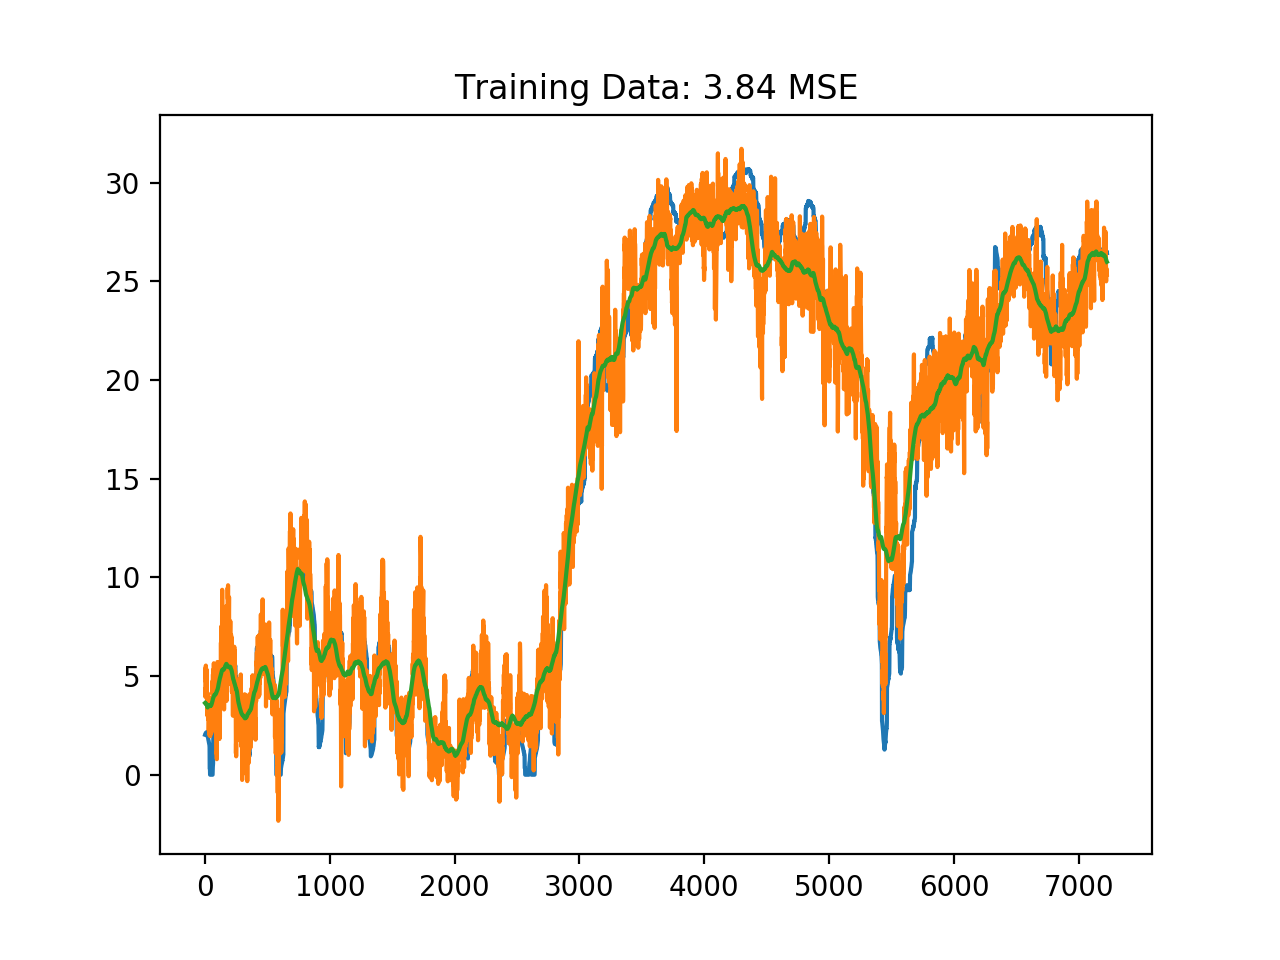
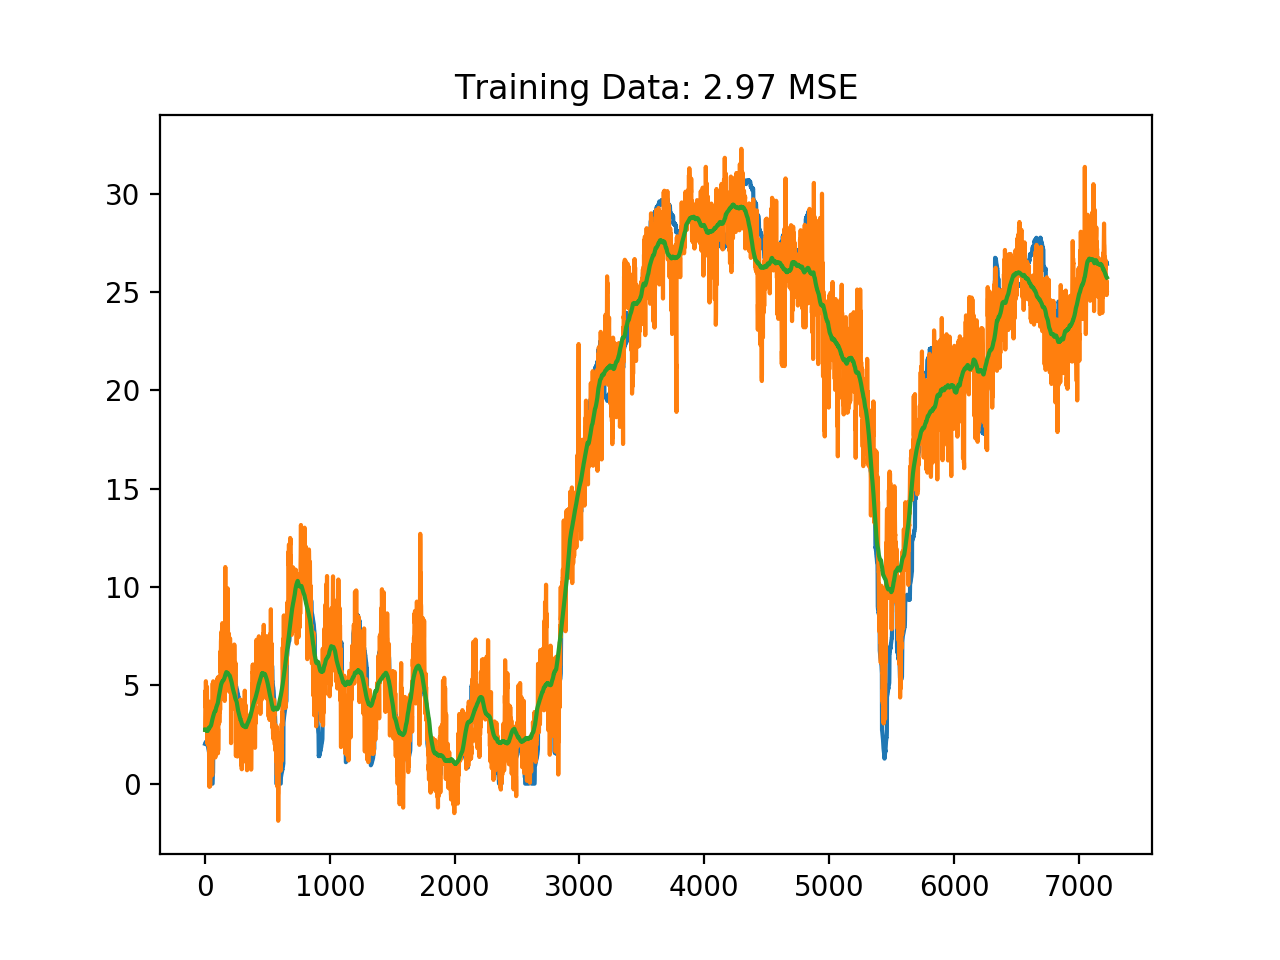
MSE down to 4.22!!

diff --git a/predict.py b/predict.py
@@ -31,10 +31,10 @@ extraction_network = 'resnet50'
 smooth_signal = ma_smoothing
 smooth_data = ma_smoothing
 smooth_data_window_size = 1
-smooth_signal_window_sizes = 153  # Set to a list of values to test them via validation OR to a value to set it constant
+smooth_signal_window_sizes = 151  # Set to a list of values to test them via validation OR to a value to set it constant
 scale_data = True
 show_model_plots = True
-best_config = {'model_type': 'ridge', 'alpha': 20000.0}  # alpha=3000 good too. None for HP Sweep or non-final runs
+best_config = {'model_type': 'ridge', 'alpha': 10000.0}  # alpha=40000 good too. None for HP Sweep or non-final runs
 best_pca_n_components = 0  # <= num features, 0 for No PCA (best for ridge), None to HP Sweep
 k_fold = 10  # For Cross-Validation. Needs to be >5 for training folds to have enough data
 val_fraction = 0.15  # What fraction of the training data to use for validation
@@ -49,7 +49,7 @@ if len(sys.argv) >= 2 and (sys.argv[-1] == '-g' or sys.argv[1] == '--gpu-optimiz
     using = 'gpu'
 model_type = str.lower(model_type)
 data_dir = 'data/'
-filename_base = 'drive_orig_theano'
+filename_base = 'drive'
 data_filename_base = os.path.join(data_dir, filename_base)
 features_filepath = data_filename_base + '_' + extraction_network + '.npz'
 warnings.filterwarnings(action='ignore', module='scipy', message='^internal gelsd')
@@ -146,33 +146,33 @@ if model_type[-2:] != 'nn':  # Simple Model
     for smooth_signal_window_size in smooth_signal_window_sizes:
         print smooth_signal_window_size
         y_train_pred = model.predict(X_train)
-        print(str.upper(model_type) +
-            ' Model Train MSE: %.2f' % mean_squared_error(y_train, y_train_pred))
+        train_mse = mean_squared_error(y_train, y_train_pred)
+        print(str.upper(model_type) + ' Model Train MSE: %.2f' % train_mse)
 
         y_train_pred_smoothed = smooth_signal(y_train_pred, smooth_signal_window_size)
-        print(str.upper(model_type) +
-            ' Model Smoothed Train MSE: %.2f' % mean_squared_error(y_train, y_train_pred_smoothed))
+        train_smoothed_mse = mean_squared_error(y_train, y_train_pred_smoothed)
+        print(str.upper(model_type) + ' Model Smoothed Train MSE: %.2f' % train_smoothed_mse)
 
         y_test_pred = model.predict(X_test)
-        print(str.upper(model_type) +
-            ' Model Test MSE: %.2f' % mean_squared_error(y_test, y_test_pred))
+        test_mse = mean_squared_error(y_test, y_test_pred)
+        print(str.upper(model_type) + ' Model Test MSE: %.2f' % test_mse)
 
         y_test_pred_smoothed = smooth_signal(y_test_pred, smooth_signal_window_size)
-        print(str.upper(model_type) +
-            ' Model Smoothed Test MSE: %.2f' % mean_squared_error(y_test, y_test_pred_smoothed))
+        test_smoothed_mse = mean_squared_error(y_test, y_test_pred_smoothed)
+        print(str.upper(model_type) + ' Model Smoothed Test MSE: %.2f' % test_smoothed_mse)
 
         if show_model_plots:
             plt.plot(y_train,label='Actual')
             plt.plot(y_train_pred, label='Predicted')
             plt.plot(y_train_pred_smoothed, label='Predicted Smoothed')
-            plt.title('Training Data: 3.84 MSE')
+            plt.title('Training Data: %.2f MSE' % train_smoothed_mse)
             plt.savefig('train_error_plot.png')
             plt.show()
 
             plt.plot(y_test,label='Actual')
             plt.plot(y_test_pred, label='Predicted')
             plt.plot(y_test_pred_smoothed, label='Predicted Smoothed')
-            plt.title('Testing Data: 6.31 MSE')
+            plt.title('Testing Data: %.2f MSE' % test_smoothed_mse)
             plt.savefig('test_error_plot.png')
             plt.show()
 

diff --git a/README.md b/README.md
@@ -7,21 +7,29 @@ Final model:
 - Extract Features from frames using pre-trained Residual Network 50
 - Performs Ridge Regression to predict speed at each frame
 - Smooths resulting speed prediction vector via a moving average method
-- Test Set MSE of 6.31 (2.51 RMSE m/s)
-- Train Set MSE of 3.84 (1.96 RMSE m/s)
+- Test Set MSE of 2.97 (1.72 RMSE m/s)
+- Train Set MSE of 4.22 (2.05 RMSE m/s)
 
 Be sure to check out cool_viz.mp4 for a cool visualization!
 
 Here are the main modules I used to produce proper runs and results:
-- ***Keras 1.2.1*** Important: Other versions (particularly 1.1)
-    might not extract features identically.
-- ***Theano 0.8.2*** Same story as above.
+- ***Keras 1.1.0*** Important: Some other versions (particularly 1.2)
+    do not extract features identically. You have been warned :)
+- ***Tensorflow 0.10.0*** for Keras backend. Potentially same story as above.
 - Python 2.7
-- Numpy 1.12.0
+- Numpy 1.11.1
 - SKLearn 0.18
-- CV2 2.4.9
-Other versions might work as well but haven't been tested.
-Tensorflow 0.12.1 might work as Keras backend as well, but hasn't been rigorously tested.
+- CV2 2.4.11
+Other versions (particularly for the last four) might work as well but haven't been tested.
+
+To verify running properly:
+- Please do this if possible to confirm feature extraction is working
+    as expected under your environment
+- Run "python test.py -v"
+- This will run the model over the combined training and testing data used originally.
+- Should receive message "Test MSE: 3.17" printed to terminal.
+- If not, use Keras 1.1.0 and Tensorflow 0.10.0 as Keras backend.
+    Again, feature extraction with pre-trained model is sensitive to these.
 
 To test on new data:
 - Name the video file "drive_test.mp4"
@@ -30,13 +38,6 @@ To test on new data:
 - Download and change versions of required packages as necessary if errors occur
 - If execution is interrupted while converting "drive_test.mp4" into the folder of JPEG's
     "drive/", please delete the created "drive/" folder and run "python test.py" again.
-
-To verify running properly:
-- Run "python test.py -v"
-- This will run the model over the training and testing data used originally.
-- Should receive message "Test MSE: 4.21" printed to terminal.
-- If not, use Keras 1.2.1 and Theano 0.8.2 as Keras backend.
-    Again, feature extraction with pre-trained model might be sensitive to these.
 
 To reproduce final run:
 - Run "python predict.py"
